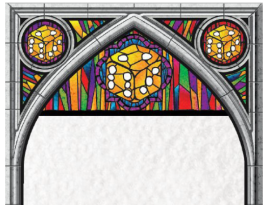
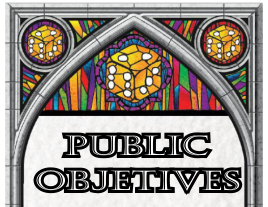
rifiniture su quanto detto prima

diff --git a/src/main/java/Progetto_Ing_Sw/com/client/form.css b/src/main/java/Progetto_Ing_Sw/com/client/form.css
@@ -432,9 +432,8 @@
 
 
 #PublicObjectiveCardMenuHeader{
-    -fx-background-color: transparent;
     -fx-text-fill: black;
-    -fx-font: 25 "Centaur";
+    -fx-font: 25 "Castellar";
     -fx-background-image: url("GUI/PublicObjectiveCardMenuHeader.png");
     -fx-background-repeat: no-repeat;
     /*-fx-effect: dropshadow( gaussian , rgba(0,0,0,0.75) , 4,0,0,1 );*/

diff --git a/src/main/java/Progetto_Ing_Sw/com/client/TableGUI.java b/src/main/java/Progetto_Ing_Sw/com/client/TableGUI.java
@@ -1,5 +1,6 @@
 package Progetto_Ing_Sw.com.client;
 
+import Progetto_Ing_Sw.com.server.Model.PublicObjectiveCard;
 import com.google.gson.JsonArray;
 import com.google.gson.JsonElement;
 import com.google.gson.JsonObject;
@@ -313,17 +314,23 @@ public class TableGUI extends Stage{
             //INIZIO  PUBLIC OBJECTIVE MENU
 
             //Contenuto del menu Public Objetives
-            Label PublicObjectiveCardMenuTitle = new Label("Public\nObjectives");PublicObjectiveCardMenuTitle.setTranslateY(50);PublicObjectiveCardMenuTitle.setTextAlignment(TextAlignment.CENTER);
-            PublicObjectiveCardMenuTitle.setStyle("-fx-background-color: transparent;"  + "-fx-font: 25 'Castellar';");
+            Label PublicObjectiveCardMenuTitle = new Label();
+            PublicObjectiveCardMenuTitle.setTranslateY(-125);PublicObjectiveCardMenuTitle.setTranslateX(-1);
+            PublicObjectiveCardMenuTitle.setId("PublicObjectiveCardMenuHeader");
+            PublicObjectiveCardMenuTitle.setTextAlignment(TextAlignment.CENTER);
+            PublicObjectiveCardMenuTitle.setMaxSize(267,205);
+
 
             //Bottoni che riferiscono alle Public Objective Cards
             PublicObjectiveCard1BTN = new Button("Public Objective 1");PublicObjectiveCard1BTN.setTranslateX(22);PublicObjectiveCard1BTN.setTranslateY(8);
             PublicObjectiveCard1BTN.setId("CardBTN");
             PublicObjectiveCard1BTN.setOnAction(new EventHandler<ActionEvent>() {
                 @Override
-                public void handle(ActionEvent event) {
-
-
+                public void handle(ActionEvent event){
+                    PublicObjectiveCard1BTN.setDisable(true);
+                    PublicObjectiveCardDisplayer PublicDisplay1 = new PublicObjectiveCardDisplayer();
+                    PublicDisplay1.showAndWait();
+                    PublicObjectiveCard1BTN.setDisable(false);
                 }
             });
 
@@ -333,9 +340,10 @@ public class TableGUI extends Stage{
             PublicObjectiveCard2BTN.setOnAction(new EventHandler<ActionEvent>() {
                 @Override
                 public void handle(ActionEvent event) {
-                    new ToolCardDisplayer();
-                    //ToolCard1BTN.setDisable(true);
-
+                   PublicObjectiveCard2BTN.setDisable(true);
+                    PublicObjectiveCardDisplayer PublicDisplay2 = new PublicObjectiveCardDisplayer();
+                    PublicDisplay2.showAndWait();
+                    PublicObjectiveCard2BTN.setDisable(false);
                 }
             });
 
@@ -360,37 +368,26 @@ public class TableGUI extends Stage{
             PublicObjectiveCard2Description = new Text("Description");PublicObjectiveCard2Description.setStyle(" -fx-font: 17 'Centaur';");PublicObjectiveCard2Description.setTranslateY(30);
             PublicObjectiveCard3Description = new Text("Description");PublicObjectiveCard3Description.setStyle(" -fx-font: 17 'Centaur';");PublicObjectiveCard3Description.setTranslateY(30);
 
-            PublicObjectiveCard1Value= new Text("4");PublicObjectiveCard1Value.setStyle("-fx-font: 50 'Centaur';"+ "-fx-font-weight: bold;");PublicObjectiveCard1Value.setTranslateX(-86);PublicObjectiveCard1Value.setTranslateY(21);
-            PublicObjectiveCard2Value= new Text("5");PublicObjectiveCard2Value.setStyle("-fx-font: 50 'Centaur';"+ "-fx-font-weight: bold;");PublicObjectiveCard2Value.setTranslateX(-86);PublicObjectiveCard2Value.setTranslateY(21);
-            PublicObjectiveCard3Value= new Text("2");PublicObjectiveCard3Value.setStyle("-fx-font: 50 'Centaur';"+ "-fx-font-weight: bold;");PublicObjectiveCard3Value.setTranslateX(-86);PublicObjectiveCard3Value.setTranslateY(21);
+            PublicObjectiveCard1Value= new Text("4");PublicObjectiveCard1Value.setStyle("-fx-font: 50 'Centaur';" + "-fx-font-weight: bold;");PublicObjectiveCard1Value.setTranslateX(-86);PublicObjectiveCard1Value.setTranslateY(21);
+            PublicObjectiveCard2Value= new Text("X");PublicObjectiveCard2Value.setStyle("-fx-font: 50 'Centaur';" + "-fx-font-weight: bold;");PublicObjectiveCard2Value.setTranslateX(-86);PublicObjectiveCard2Value.setTranslateY(21);
+            PublicObjectiveCard3Value= new Text("2");PublicObjectiveCard3Value.setStyle("-fx-font: 50 'Centaur';" + "-fx-font-weight: bold;");PublicObjectiveCard3Value.setTranslateX(-86);PublicObjectiveCard3Value.setTranslateY(21);
 
             //StackPane per i vari menù
-            StackPane PublicObjectiveMenuHeader = new StackPane();PublicObjectiveMenuHeader.setId("PublicObjectiveCardMenuHeader");PublicObjectiveMenuHeader.setTranslateY(-120);PublicObjectiveMenuHeader.setMinHeight(205);
-            PublicObjectiveMenuHeader.getChildren().add(PublicObjectiveCardMenuTitle);
 
-            StackPane PublicObjectiveCard1= new StackPane();PublicObjectiveCard1.setTranslateY(-10);
-            PublicObjectiveCard1.getChildren().addAll(PublicObjectiveCard1Label,PublicObjectiveCard1BTN,PublicObjectiveCard1Description,PublicObjectiveCard1Value);
+            StackPane PublicObjectiveCard1= new StackPane();PublicObjectiveCard1.setTranslateY(0);
+            PublicObjectiveCard1.getChildren().addAll(PublicObjectiveCard1Label,PublicObjectiveCard1Description,PublicObjectiveCard1Value,PublicObjectiveCard1BTN);
 
-            StackPane PublicObjectiveCard2= new StackPane();PublicObjectiveCard2.setTranslateY(65);
-            PublicObjectiveCard2.getChildren().addAll(PublicObjectiveCard2Label,PublicObjectiveCard2BTN,PublicObjectiveCard2Description,PublicObjectiveCard2Value);
+            StackPane PublicObjectiveCard2= new StackPane();PublicObjectiveCard2.setTranslateY(75);
+            PublicObjectiveCard2.getChildren().addAll(PublicObjectiveCard2Label,PublicObjectiveCard2Description,PublicObjectiveCard2Value,PublicObjectiveCard2BTN);
 
-            StackPane PublicObjectiveCard3= new StackPane();PublicObjectiveCard3.setTranslateY(140);
-            PublicObjectiveCard3.getChildren().addAll(PublicObjectiveCard3Label,PublicObjectiveCard3BTN,PublicObjectiveCard3Description,PublicObjectiveCard3Value);
+            StackPane PublicObjectiveCard3= new StackPane();PublicObjectiveCard3.setTranslateY(150);
+            PublicObjectiveCard3.getChildren().addAll(PublicObjectiveCard3Label,PublicObjectiveCard3Description,PublicObjectiveCard3Value,PublicObjectiveCard3BTN);
 
 
 
-            //StackPane per contenere le Public Objective Cards
-            StackPane PublicObjectiveCardList = new StackPane();
-            PublicObjectiveCardList.setMaxHeight(350);
-            PublicObjectiveCardList.setPrefWidth(240);
-            PublicObjectiveCardList.setTranslateY(0);
-            PublicObjectiveCardList.getChildren().addAll(PublicObjectiveCard3, PublicObjectiveCard2, PublicObjectiveCard1, PublicObjectiveMenuHeader);
-
-            //VBox del Menu Public Objective Card
-            VBox PublicObjectiveMenu = new VBox(100);PublicObjectiveMenu.setTranslateY(-30);
-            PublicObjectiveMenu.setMaxHeight(280);
-            PublicObjectiveMenu.setMaxWidth(240);
-            PublicObjectiveMenu.getChildren().add(PublicObjectiveCardList);
+            //StackPane per il menu Public Objective Cards
+            StackPane PublicObjectiveCardMenu = new StackPane();PublicObjectiveCardMenu.setMaxSize(268,445);
+            PublicObjectiveCardMenu.getChildren().addAll(PublicObjectiveCard3, PublicObjectiveCard2, PublicObjectiveCard1,PublicObjectiveCardMenuTitle);
 
             //FINE PUBLIC OBJECTIVE MENU
 
@@ -428,11 +425,11 @@ public class TableGUI extends Stage{
             StackPane GameplayArea = new StackPane();
             GameplayArea.setId("GamemodeSelectionScreen");
             GameplayArea.setAlignment(WindowBoard,Pos.CENTER);
-            GameplayArea.setAlignment(PublicObjectiveMenu,Pos.BOTTOM_LEFT);
+            GameplayArea.setAlignment(PublicObjectiveCardMenu,Pos.BOTTOM_LEFT);
             GameplayArea.setAlignment(ToolCardMenu,Pos.BOTTOM_RIGHT);
             GameplayArea.setAlignment(DraftPool,Pos.TOP_LEFT);
             GameplayArea.setAlignment(RoundTrack,Pos.TOP_RIGHT);
-            GameplayArea.getChildren().addAll(WindowBoard,PublicObjectiveMenu,ToolCardMenu,DraftPool,RoundTrack);
+            GameplayArea.getChildren().addAll(WindowBoard,PublicObjectiveCardMenu,ToolCardMenu,DraftPool,RoundTrack);
 
 
 
@@ -471,6 +468,5 @@ public class TableGUI extends Stage{
 
             });
         }
-
 
 }

diff --git a/src/main/java/Progetto_Ing_Sw/com/client/MultiplayerGUI.java b/src/main/java/Progetto_Ing_Sw/com/client/MultiplayerGUI.java
@@ -137,6 +137,13 @@ public class MultiplayerGUI extends Stage {
 
     }
 
+    public void StartGame(){
+        Platform.runLater(() ->{
+            close();
+            new TableGUI();
+        });
+    }
+
     public void update(){
         Platform.runLater(() ->{
             Player1Label.setText(LocalModel.getInstance().getClientPlayerArrayList().get(0).getName());
@@ -148,10 +155,5 @@ public class MultiplayerGUI extends Stage {
         });
     }
 
-    public void StartGame(){
-        Platform.runLater(() ->{
-            close();
-            new TableGUI();
-        });
-    }
+
 }

diff --git a/src/main/java/Progetto_Ing_Sw/com/client/StartMenuGUI.java b/src/main/java/Progetto_Ing_Sw/com/client/StartMenuGUI.java
@@ -59,8 +59,8 @@ public class StartMenuGUI extends Application {
             @Override
             public void handle(ActionEvent event){
                 //new ChooseAWindow();
-                new TableGUI();
-                //new MultiplayerGUI(); //TODO rimetti new MultiplayerGUI(); qua
+                //new TableGUI();
+                new MultiplayerGUI(); //TODO rimetti new MultiplayerGUI(); qua
                 primaryStage.close();
 
             }
